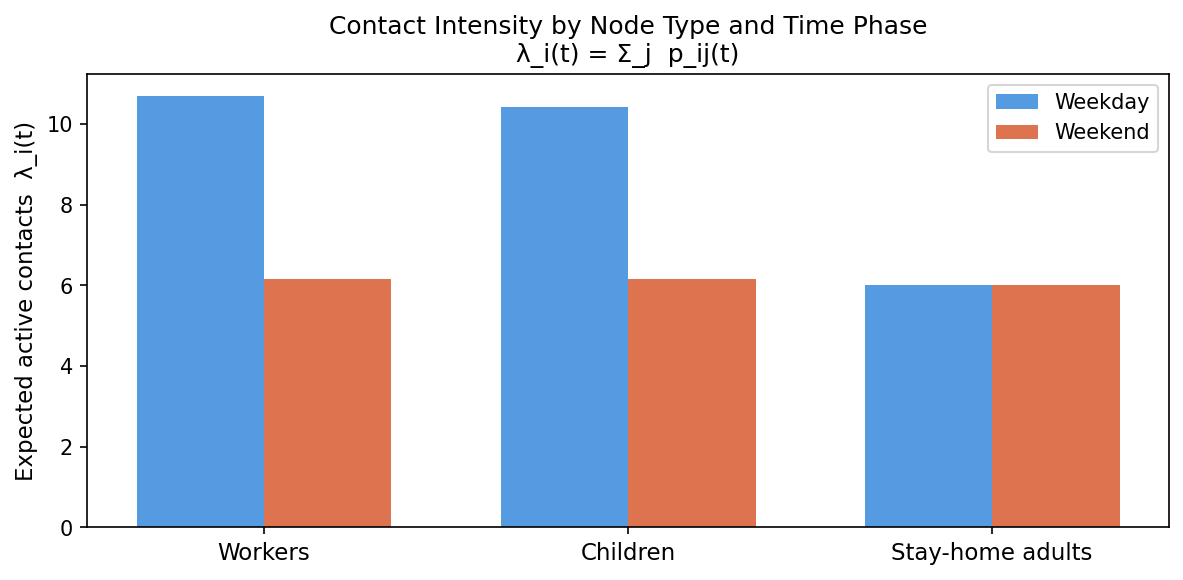
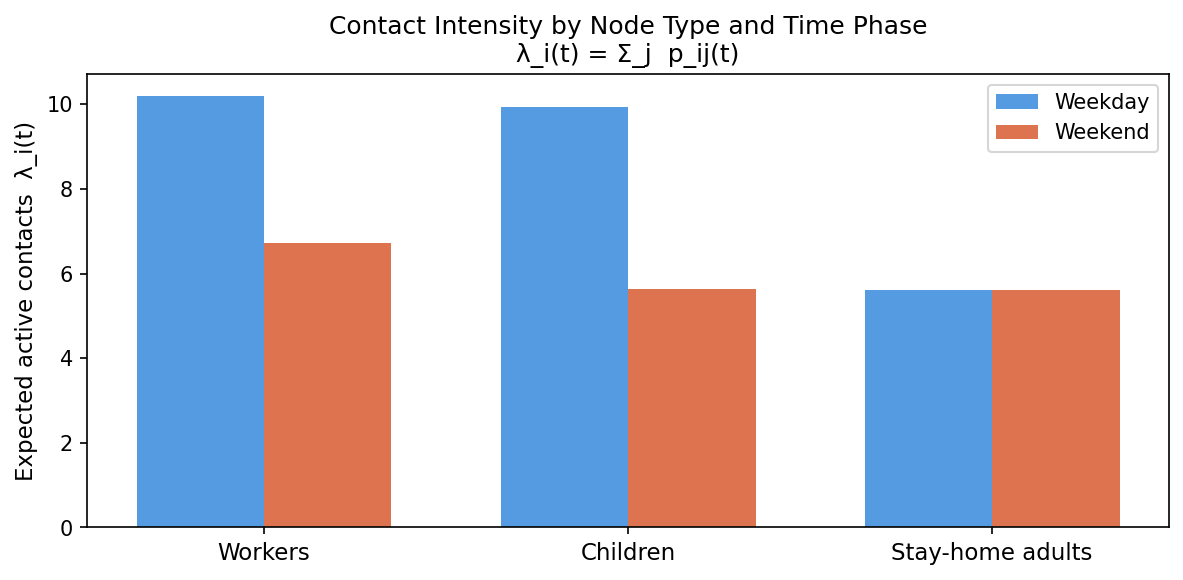
made changes to community layer in regards to parameters and animation

diff --git a/Community layer changes.py b/Community layer changes.py
@@ -42,6 +42,7 @@ Requirements:
 """
 
 import random
+from tkinter import NONE
 import numpy as np
 import pandas as pd
 import networkx as nx
@@ -87,24 +88,24 @@ CHILD_ACTIVITY_ALPHA  = 2
 CHILD_ACTIVITY_BETA   = 3
 
 # --- Layer transmission rates β ---
-BETA_HOUSEHOLD        = 0.15    # close prolonged contact
-BETA_WORK             = 0.08    # workplace
-BETA_SCHOOL           = 0.10    # school (further scaled by child activity)
-BETA_NEIGHBOR         = 0.02    # casual neighbor — low because all-week
-BETA_SOCIAL_WEEKEND   = 0.06    # weekend social
+BETA_HOUSEHOLD        = 0.3    # close prolonged contact
+BETA_WORK             = 0.3    # workplace
+BETA_SCHOOL           = 0.3    # school (further scaled by child activity)
+BETA_NEIGHBOR         = 0.3    # casual neighbor — low because all-week
+BETA_SOCIAL_WEEKEND   = 0.3    # weekend social
 
 # --- Recovery ---
-GAMMA                 = 0.07    # daily recovery prob for I nodes
+GAMMA                 = 0.2    # daily recovery prob for I nodes
 GAMMA_ON_LEAVE        = 0.18    # faster recovery while resting at home
 
 # --- Sick leave ---
-SICK_LEAVE_PROB       = 0.35    # prob infected node takes leave per day
+SICK_LEAVE_PROB       = 0.0    # prob infected node takes leave per day
                                  # not everyone reports symptoms
 SICK_LEAVE_DURATION   = 4       # max days on leave before forced recovery
 
 # --- Simulation ---
 MAX_STEPS             = 120
-RANDOM_SEED           = 42
+RANDOM_SEED           = NONE
 
 # --- Visual colors ---
 LAYER_COLORS = {
@@ -772,18 +773,42 @@ def animate_sir(G, pos, states_over_time, history):
         ax_sir.legend(fontsize=9)
     ctrl = {"playing": True}
 
-    ani  = animation.FuncAnimation(
+    ani_interval = 280
+
+    ani = animation.FuncAnimation(
         fig, update,
-        frames=n_frames, interval=280, repeat=False
+        frames=n_frames, interval=ani_interval, repeat=False
     )
+
+    def ensure_event_source():
+        """
+        Ensure `ani.event_source` exists. Some backends or saving
+        operations can leave `event_source` as None — create a
+        timer and attach the animation's internal step callback.
+        """
+        if getattr(ani, "event_source", None) is None:
+            interval = getattr(ani, "_interval", ani_interval)
+            timer = fig.canvas.new_timer(interval=interval)
+            # Use the animation's internal step method as the callback
+            try:
+                timer.add_callback(ani._step)
+            except Exception:
+                # Fallback if add_callback signature differs
+                timer.add_callback(lambda: getattr(ani, "_step")())
+            ani.event_source = timer
 
     def on_key(event):
         if event.key == " ":
             ctrl["playing"] = not ctrl["playing"]
-            ani.event_source.start() if ctrl["playing"] \
-                else ani.event_source.stop()
+            ensure_event_source()
+            if ctrl["playing"]:
+                ani.event_source.start()
+            else:
+                ani.event_source.stop()
         elif event.key == "r":
             ctrl["playing"] = True
+            ensure_event_source()
+            # Stop timer, force frame 0 render, reset frame iterator, restart
             ani.event_source.stop()
             update(0)
             fig.canvas.draw_idle()

diff --git a/new network.py b/new network.py
@@ -40,8 +40,8 @@ import random
 # --- Population ---
 N_NODES = 0                 # number of people (nodes)
 HOUSEHOLD_SIZE_MEAN = 4     # average people per household
-HOUSEHOLD_SIZE_STD = 0.75
-NUM_HOUSEHOLDS = 15         # number of households
+HOUSEHOLD_SIZE_STD = 4/3
+NUM_HOUSEHOLDS = 20         # number of households
 
 # --- Disease parameters ---
 BETA = 0.30                 # transmission probability per contact per time step
@@ -50,7 +50,7 @@ GAMMA = 0.2                 # recovery probability per time step
                             # higher = people recover faster (try 0.05 to 0.5)
 
 # --- Temporal / activity parameters ---
-BASE_ACTIVITY = 0.1         # base probability that any node is "active" (makes
+BASE_ACTIVITY = 0.3         # base probability that any node is "active" (makes
                             # a community contact) on a given time step.
                             # Each node also gets a small random personal modifier.
 
